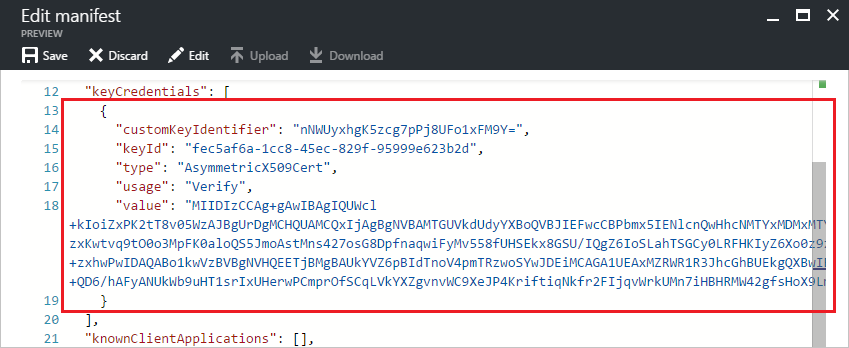
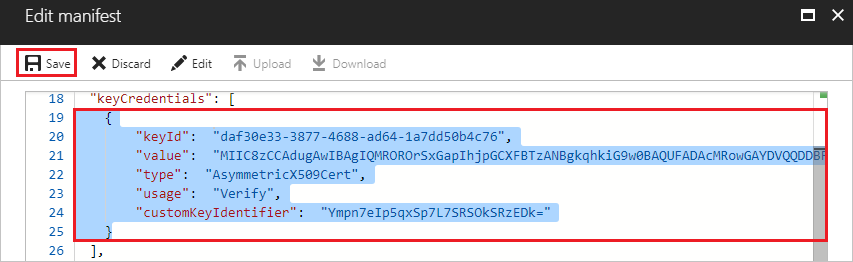
Update README.md

diff --git a/README.md b/README.md
@@ -54,82 +54,54 @@ EDUGraphAPI is based on NodeJS (the server-side) and Angular 2 (the client-side)
   - [Git](https://git-scm.com/download/win)
   - Familiarity with Node.js, TypeScript, Angular and web services.
 
-## Generate a self-signed certificate**
+## Generate a self-signed certificate
 
 A self-signed certificate is required by the SyncData WebJob. For preview, you may skip the steps below and use the default certificate we provided:
 
-- Certificate file: `/App_Data/jobs/triggered/SyncData/app_only_cert.pfx`
+- Certificate file: `/src/EDUGraphAPI.SyncData/app_only_cert.pfx`
 - Password: `J48W23RQeZv85vj`
-- Key credential: `/App_Data/jobs/triggered/SyncData/key_credential.txt`
+- Key credential: `/src/EDUGraphAPI.SyncData/key_credential.txt`
 
-For production, you should you own certifcate:
+For production, you should you own certificate:
 
-**Generate certificate with PowerShell**
+1. Generate certificate with PowerShell
 
-This file will be used in web job.
+   Run PowerShell **as administrator**, then execute the commands below:
 
-Run PowerShell **as administrator**, then execute the commands below:
+   ```powershell
+   $cert = New-SelfSignedCertificate -Type Custom -KeyExportPolicy Exportable -KeySpec Signature -Subject "CN=Edu App-only Cert" -NotAfter (Get-Date).AddYears(20) -CertStoreLocation "cert:\CurrentUser\My" -KeyLength 2048
+   ```
 
-```powershell
-$cert = New-SelfSignedCertificate -Type Custom -KeyExportPolicy Exportable -KeySpec Signature -Subject "CN=Edu App-only Cert" -NotAfter (Get-Date).AddYears(20) -CertStoreLocation "cert:\CurrentUser\My" -KeyLength 2048
-```
+   > Note: please keep the PowerShell window open until you finish the steps below.
 
-> Note: please keep the PowerShell window open until you finish the steps below.
+2. Get keyCredential
 
-**Get keyCredential**
+   Execute the commands below to get keyCredential:
 
-Execute the commands below to get keyCredential:
+   > Note: Feel free to change the file path at the end of the command.
 
-> Note: Feel free to change the file path at the end of the command.
+   ```powershell
+   $keyCredential = @{}
+   $keyCredential.customKeyIdentifier = [System.Convert]::ToBase64String($cert.GetCertHash())
+   $keyCredential.keyId = [System.Guid]::NewGuid().ToString()
+   $keyCredential.type = "AsymmetricX509Cert"
+   $keyCredential.usage = "Verify"
+   $keyCredential.value = [System.Convert]::ToBase64String($cert.GetRawCertData())
+   $keyCredential | ConvertTo-Json > c:\keyCredential.txt
+   ```
 
-```powershell
-$keyCredential = @{}
-$keyCredential.customKeyIdentifier = [System.Convert]::ToBase64String($cert.GetCertHash())
-$keyCredential.keyId = [System.Guid]::NewGuid().ToString()
-$keyCredential.type = "AsymmetricX509Cert"
-$keyCredential.usage = "Verify"
-$keyCredential.value = [System.Convert]::ToBase64String($cert.GetRawCertData())
-$keyCredential | ConvertTo-Json > c:\keyCredential.txt
-```
+   The keyCredential is in the generated file, and will be used to create App Registrations in AAD.
 
-The keyCredential is in the generated file, and will be used to create App Registrations in AAD.
+   ![cert-key-credential](C:/Users/admin/Documents/GitHub/EDUGraphAPI-Angular/Images/cert-key-credential.png)
 
-![cert-key-credential](/Images/cert-key-credential.png)
+3. Export the certificate
 
-### Export the Certificate and Convert to Base64 String
+   ```powershell
+   $password = Read-Host -Prompt "Enter password" -AsSecureString
+   Export-PfxCertificate -Cert $cert -Password $password -FilePath c:\app_only_cert.pfx
+   ```
 
-You will be prompted to input a password to protect the certificate. Please copy aside the password. It will be used as the value of the **Certificate Pfx Password** parameter of the ARM Template
-
-The base64 string of the certificate is in the generated text file, and will be used as the value of the **Certificate Pfx Base64** parameter of the ARM Template.
-
-![cert-base64](/Images/cert-base64.png)
-
-Execute the commands below to export the certificate.
-
-```
-$password = Read-Host -Prompt "Enter password" -AsSecureString
-Export-PfxCertificate -Cert $cert -Password $password -FilePath c:\app_only_cert.pfx
-```
-
-
-
-Deploying and running this sample requires**:
-
-- An Azure subscription with permissions to register a new application, and deploy the web app.
-
-- An O365 Education tenant with Microsoft School Data Sync enabled.
-
-  - One of the following browsers: Edge, Internet Explorer 9, Safari 5.0.6, Firefox 5, Chrome 13, or a later version of one of these browsers.
-
-  Additionally: Developing/running this sample locally requires the following:  
-
-  - Visual Studio 2015 (any edition), [Visual Studio 2015 Community](https://go.microsoft.com/fwlink/?LinkId=691978&clcid=0x409) is available for free.
-  - [TypeScript for Visual Studio 2015](https://www.microsoft.com/en-us/download/details.aspx?id=48593)
-  - [Node.js](https://nodejs.org/)
-  - [Node.js Tools 1.2](http://aka.ms/ntvs1.2.RTW.2015)
-  - [Git](https://git-scm.com/download/win)
-  - Familiarity with Node.js, TypeScript, Angular and web services.
-
+   It will promote you to input a password. Keep the password and the exported certificate.
 
 
 ## Register the application in Azure Active Directory
@@ -146,21 +118,15 @@ Deploying and running this sample requires**:
 
 4. Input a **Name**, and select **Web app / API** as **Application Type**.
 
-   Input **Sign-on URL**: https://localhost:44380/
+   Input **Sign-on URL**: `https://localhost:44380/*`
 
    ![](Images/aad-create-app-02.png)
 
    Click **Create**.
 
-5. Once completed, the app will show in the list.
-
-   ![](/Images/aad-create-app-03.png)
-
-6. Click it to view its details. 
-
    ![](/Images/aad-create-app-04.png)
 
-7. Click **All settings**, if the setting window did not show.
+5. Click **Settings**.
 
    - Click **Properties**, then set **Multi-tenanted** to **Yes**.
 
@@ -170,10 +136,10 @@ Deploying and running this sample requires**:
 
    - Click **Required permissions**. Add the following permissions:
 
-     | API                            | Application Permissions                  | Delegated Permissions                    |
-     | ------------------------------ | ---------------------------------------- | ---------------------------------------- |
-     | Microsoft Graph                | Read all users' full profiles<br>Read the organization's roster | Read directory data<br>Access directory as the signed in user<br>Sign users in<br> Have full access to all files user can access<br> Have full access to user files<br> Read and write users' class assignments and their grades<br>Read users' view of the roster <br>Read all groups |
-     | Windows Azure Active Directory |                                          | Sign in and read user profile<br>Read and write directory data |
+     | API                            | Application Permissions       | Delegated Permissions                                        |
+     | ------------------------------ | ----------------------------- | ------------------------------------------------------------ |
+     | Microsoft Graph                | Read all users' full profiles | Read directory data<br>Access directory as the signed in user<br>Sign users in<br> Have full access to all files user can access<br> Have full access to user files<br> Read and write users' class assignments and their grades<br>Read users' view of the roster <br>Read all groups |
+     | Windows Azure Active Directory |                               | Sign in and read user profile<br>Read and write directory data |
 
      ![](/Images/aad-create-app-06.png)
 
@@ -185,21 +151,19 @@ Deploying and running this sample requires**:
 
      Click **Save**, then copy aside the **VALUE** of the key. 
 
-8. Click **Manifest**.
+   Close the Settings window.
+
+6. Add  keyCredential
+
+     * Click **Manifest**.
 
      ![](Images/aad-create-app-08.png)
 
+     * Copy the keyCredential (all the text) from `key_credential.txt` file.
+     * Insert the keyCredential into the square brackets of the **keyCredentials** node. ![](Images/aad-create-app-09.png)
 
-     Copy the keyCredential (all the text) from `key_credential.txt` file.
-    
-     Insert the keyCredential into the square brackets of the **keyCredentials** node.
-    
-     ![](Images/aad-create-app-09.png)
-    
-     Click **Save**.
-    
-     > Note: this step configures the certification used by a Web Job. Check **Application Authentication Flow** section for more details.
-   Close the Settings window.
+     * Click **Save**.
+
 
 ## Build and debug locally
 
@@ -214,7 +178,7 @@ The following tools are also required:
 - [Node.js Tools 1.2](http://aka.ms/ntvs1.2.RTW.2015)
 - [Git](https://git-scm.com/download/win)
 
-Debug the **EDUGraphAPI.Web**:
+### Debug EDUGraphAPI.Web
 
 1. Configure **Environment Variables**. Right-click the project in Solution Explorer, then click **Properties**.
 
@@ -229,6 +193,10 @@ Debug the **EDUGraphAPI.Web**:
    ![](/Images/install-missing-npm-packages.png)
 
 3. Press **F5**. 
+
+### Debug EDUGraphAPI.SyncData
+
+TODO
 
 ## Deploy the sample to Azure
 
@@ -264,15 +232,15 @@ Debug the **EDUGraphAPI.Web**:
 
 **Deploy the Azure Components from GitHub**
 
-1. Check to ensure that the build is passing VSTS Build.
+1. Fork this repository to your GitHub account.
 
-2. Fork this repository to your GitHub account.
+2. Replace `/src/EDUGraphAPI.SyncData/app_only_cert.pfx` with your certificate if you plan to use yours.
 
 3. Click the Deploy to Azure Button:
 
    [![Deploy to Azure](http://azuredeploy.net/deploybutton.png)](https://portal.azure.com/#create/Microsoft.Template/uri/https%3A%2F%2Fraw.githubusercontent.com%2FOfficeDev%2FO365-EDU-AngularJS-Samples%2Fmaster%2Fazuredeploy.json)
 
-4. Fill in the values in the deployment page and select the **I agree to the terms and conditions stated above** checkbox.
+4. Fill in the values in the deployment page:
 
    ![](Images/azure-auto-deploy.png)
 
@@ -288,6 +256,10 @@ Debug the **EDUGraphAPI.Web**:
      >
      > In this case, please use another name.
 
+   - **My Sql Administrator Login**: The administrator login of the MySQL.
+
+   - **My Sql Administrator Login Password**: The administrator login password of the MySQL.
+
    - **Source Code Repository URL**: replace <YOUR REPOSITORY> with the repository name of your fork.
 
    - **Source Code Manual Integration**: choose **false**, since you are deploying from your own fork.
@@ -296,11 +268,15 @@ Debug the **EDUGraphAPI.Web**:
 
    - **Client Secret**: use the Key value of the app registration you created earlier.
 
+   - **Client Certificate Path**: keep the default value `./app_only_cert.pfx`.
+
+   - **Client Certificate Password**: password of the certificate.
+
    - Check **I agree to the terms and conditions stated above**.
 
 5. Click **Purchase**.
 
-**Add REPLY URL to the app registration**
+**Add Reply URL to the app registration**
 
 1. After the deployment, open the resource group:
 
@@ -310,15 +286,13 @@ Debug the **EDUGraphAPI.Web**:
 
    ![](Images/azure-web-app.png)
 
-   Copy the URL aside and change the schema to **https**. This is the replay URL and will be used in next step.
+   Copy the URL aside, then append `/*` . We get a new reply URL `https://edugraphapi.azurewebsites.net/*`.
 
 3. Navigate to the app registration in the new Azure Portal, then open the setting windows.
 
    Add the reply URL:
 
    ![](Images/aad-add-reply-url.png)
-
-   > Note: to debug the sample locally, make sure that https://localhost:44380/ is in the reply URLs.
 
 4. Click **SAVE**.
 
@@ -509,25 +483,25 @@ getAssignmentsByClassId(classId: string): Observable<any[]> {
         return this.dataService.getArray<any>(`${this.urlBase}/education/classes/${classId}/assignments`);
     }
 ```
-```
-    createAssignment(assignment: Assignment): Observable<any> {
-        let data = {
-            "dueDateTime": assignment.DueDateTime,
-            "displayName": assignment.DisplayName,
-            "status": assignment.Status,
-            "allowStudentsToAddResourcesToSubmission": true,
-            "assignTo": {
-                "@odata.type": "#microsoft.education.assignments.api.educationAssignmentClassRecipient"
-            }
-        };
-        return this.dataService.postToGraph(`${this.urlBase}/education/classes/${assignment.ClassId}/assignments`, data);
-    }
+```typescript
+createAssignment(assignment: Assignment): Observable<any> {
+    let data = {
+        "dueDateTime": assignment.DueDateTime,
+        "displayName": assignment.DisplayName,
+        "status": assignment.Status,
+        "allowStudentsToAddResourcesToSubmission": true,
+        "assignTo": {
+            "@odata.type": "#microsoft.education.assignments.api.educationAssignmentClassRecipient"
+        }
+    };
+    return this.dataService.postToGraph(`${this.urlBase}/education/classes/${assignment.ClassId}/assignments`, data);
+}
 ```
 
-```
-    publishAssignment(assignment: Assignment): Observable<any> {
-        return this.dataService.postToGraph(`${this.urlBase}/education/classes/${assignment.ClassId}/assignments/${assignment.Id}/publish`, null);
-    }
+```typescript
+publishAssignment(assignment: Assignment): Observable<any> {
+    return this.dataService.postToGraph(`${this.urlBase}/education/classes/${assignment.ClassId}/assignments/${assignment.Id}/publish`, null);
+}
 ```
 
 Below are some screenshots of the sample app that show the education data.
@@ -572,6 +546,18 @@ This flow is implemented in the AdminController.
 
 ![](Images/auth-flow-admin-login.png)
 
+**Application Authentication Flow**
+
+This flow in implemented in the SyncData WebJob.
+
+![](/Images/auth-flow-app-login.png)
+
+An X509 certificate is used. For more details, please check the following links:
+
+- [Daemon or Server Application to Web API](https://docs.microsoft.com/en-us/azure/active-directory/active-directory-authentication-scenarios#daemon-or-server-application-to-web-api)
+- [Authenticating to Azure AD in daemon apps with certificates](https://azure.microsoft.com/en-us/resources/samples/active-directory-dotnet-daemon-certificate-credential/)
+- [Build service and daemon apps in Office 365](https://msdn.microsoft.com/en-us/office/office365/howto/building-service-apps-in-office-365)
+
 ### Two Kinds of Graph APIs
 
 There are two distinct Graph APIs used in this sample:
@@ -611,25 +597,16 @@ Note that in the AAD Application settings, permissions for each Graph API are co
 
 A [differential query](https://msdn.microsoft.com/en-us/Library/Azure/Ad/Graph/howto/azure-ad-graph-api-differential-query) request returns all changes made to specified entities during the time between two consecutive requests. For example, if you make a differential query request an hour after the previous differential query request, only the changes made during that hour will be returned. This functionality is especially useful when synchronizing tenant directory data with an application’s data store.
 
-The related code is in the following folder of the project:
-
-- **EDUGraphAPI.SyncData.njsproj**: contains classes that are used to demonstrate how to sync users.
-
-In userDataSyncService.ts, we demonstrate how to use the **DifferentialQuery** to send differential query and get differential result.
-
-```php
-graph.queryUsers(deltaLink, tenantId, Constants.ClientId, token)
-```
-
-And how to update (or delete) users in local database with the delta result:
-
-```php
- userHelper.updateOrDeleteUser(users);
-```
+The related code is in the **EDUGraphAPI.SyncData** project which is deployed as SyncData WebJob.
 
 Below is the log generated by the SyncData WebJob:
 
-![](Images/sync-data-web-job-log.png) 
+~~~
+[05/23/2018 06:26:07 > 4a686b: INFO] Starting to sync users for the Canviz EDU organization.
+[05/23/2018 06:26:07 > 4a686b: INFO] 	Executing Differential Query
+[05/23/2018 06:26:07 > 4a686b: INFO] 	Get 1 user(s).
+[05/23/2018 06:26:07 > 4a686b: INFO] 	Updating user: admin@canvizedu.onmicrosoft.com
+~~~
 
 ## Questions and comments
 
